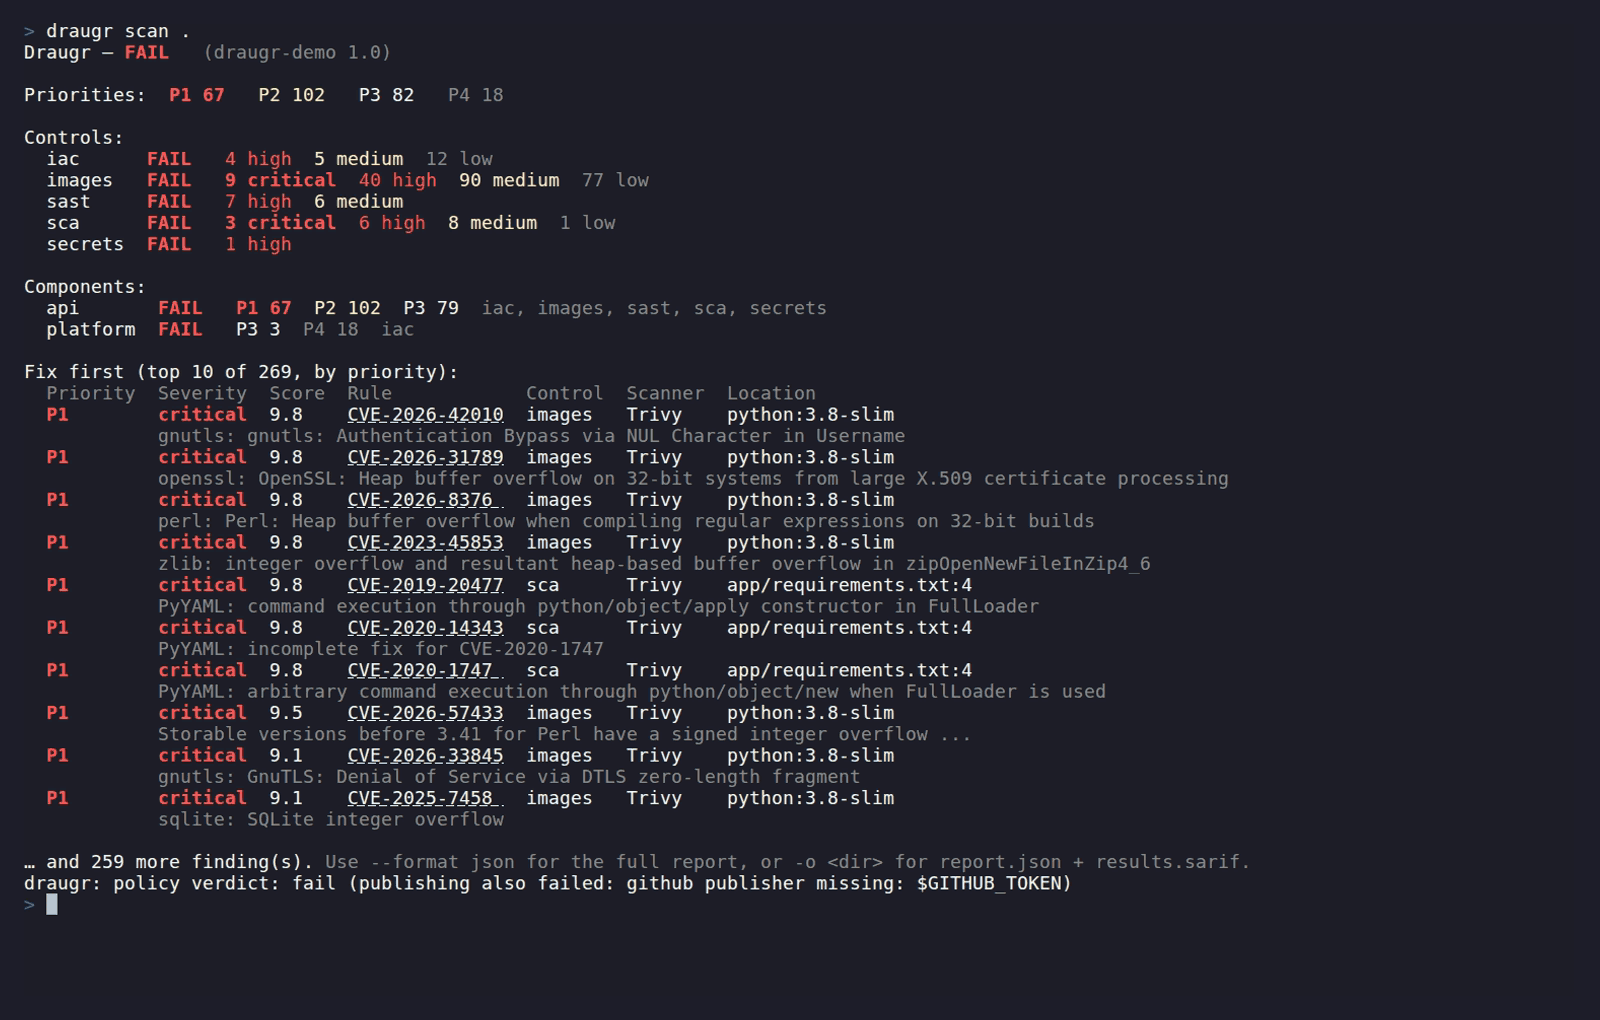
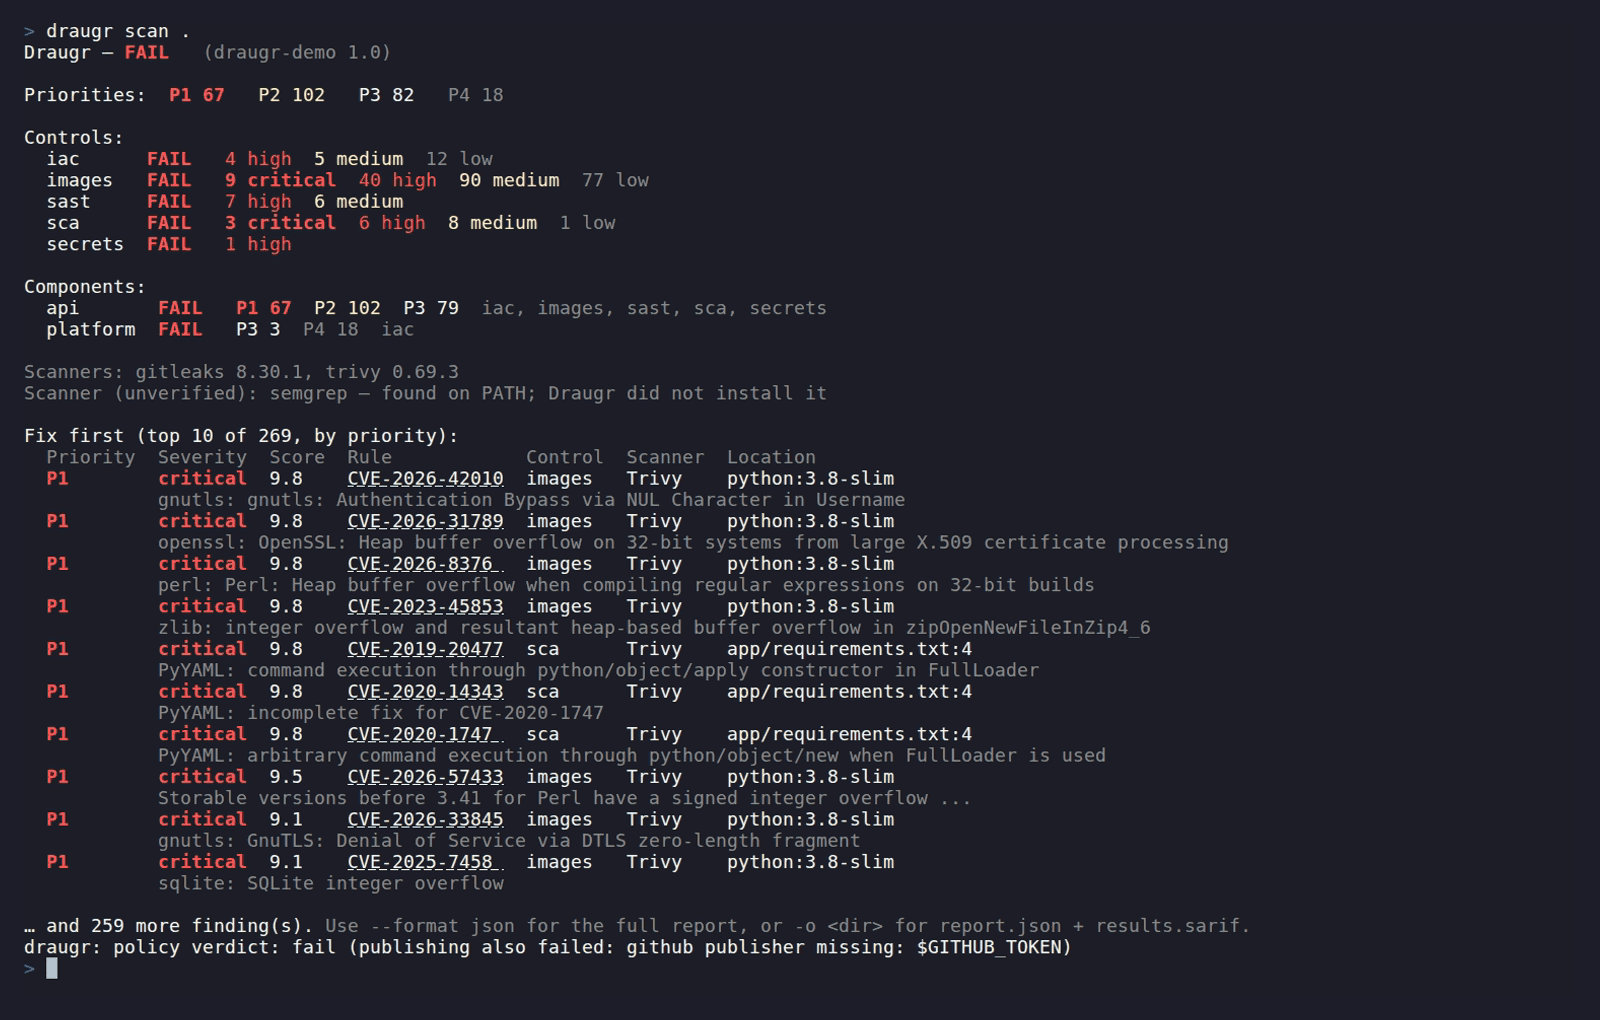
docs: regenerate the demo assets (#562)

Changed region(s): [[0.0, 0.3343, 0.7812, 0.9422], [0.6875, 0.8206, 0.7812, 0.851], [0.6875, 0.8814, 0.7188, 0.9118]]

diff --git a/contrib/demo/scan.html b/contrib/demo/scan.html
@@ -14,5 +14,8 @@ Components:
   api       <span class="t-crit">FAIL </span>  <span class="t-crit">P1 67</span>  <span class="t-warn">P2 102</span>  P3 79  <span class="t-dim">iac, images, sast, sca, secrets</span>
   platform  <span class="t-crit">FAIL </span>  P3 3  <span class="t-dim">P4 18</span>  <span class="t-dim">iac</span>
 
+<span class="t-dim">Scanners: gitleaks 8.30.1, trivy 0.69.3</span>
+<span class="t-dim">Scanner (unverified): semgrep — found on PATH; Draugr did not install it</span>
+
 <span class="t-prompt">$</span> echo $?
 1</pre>
